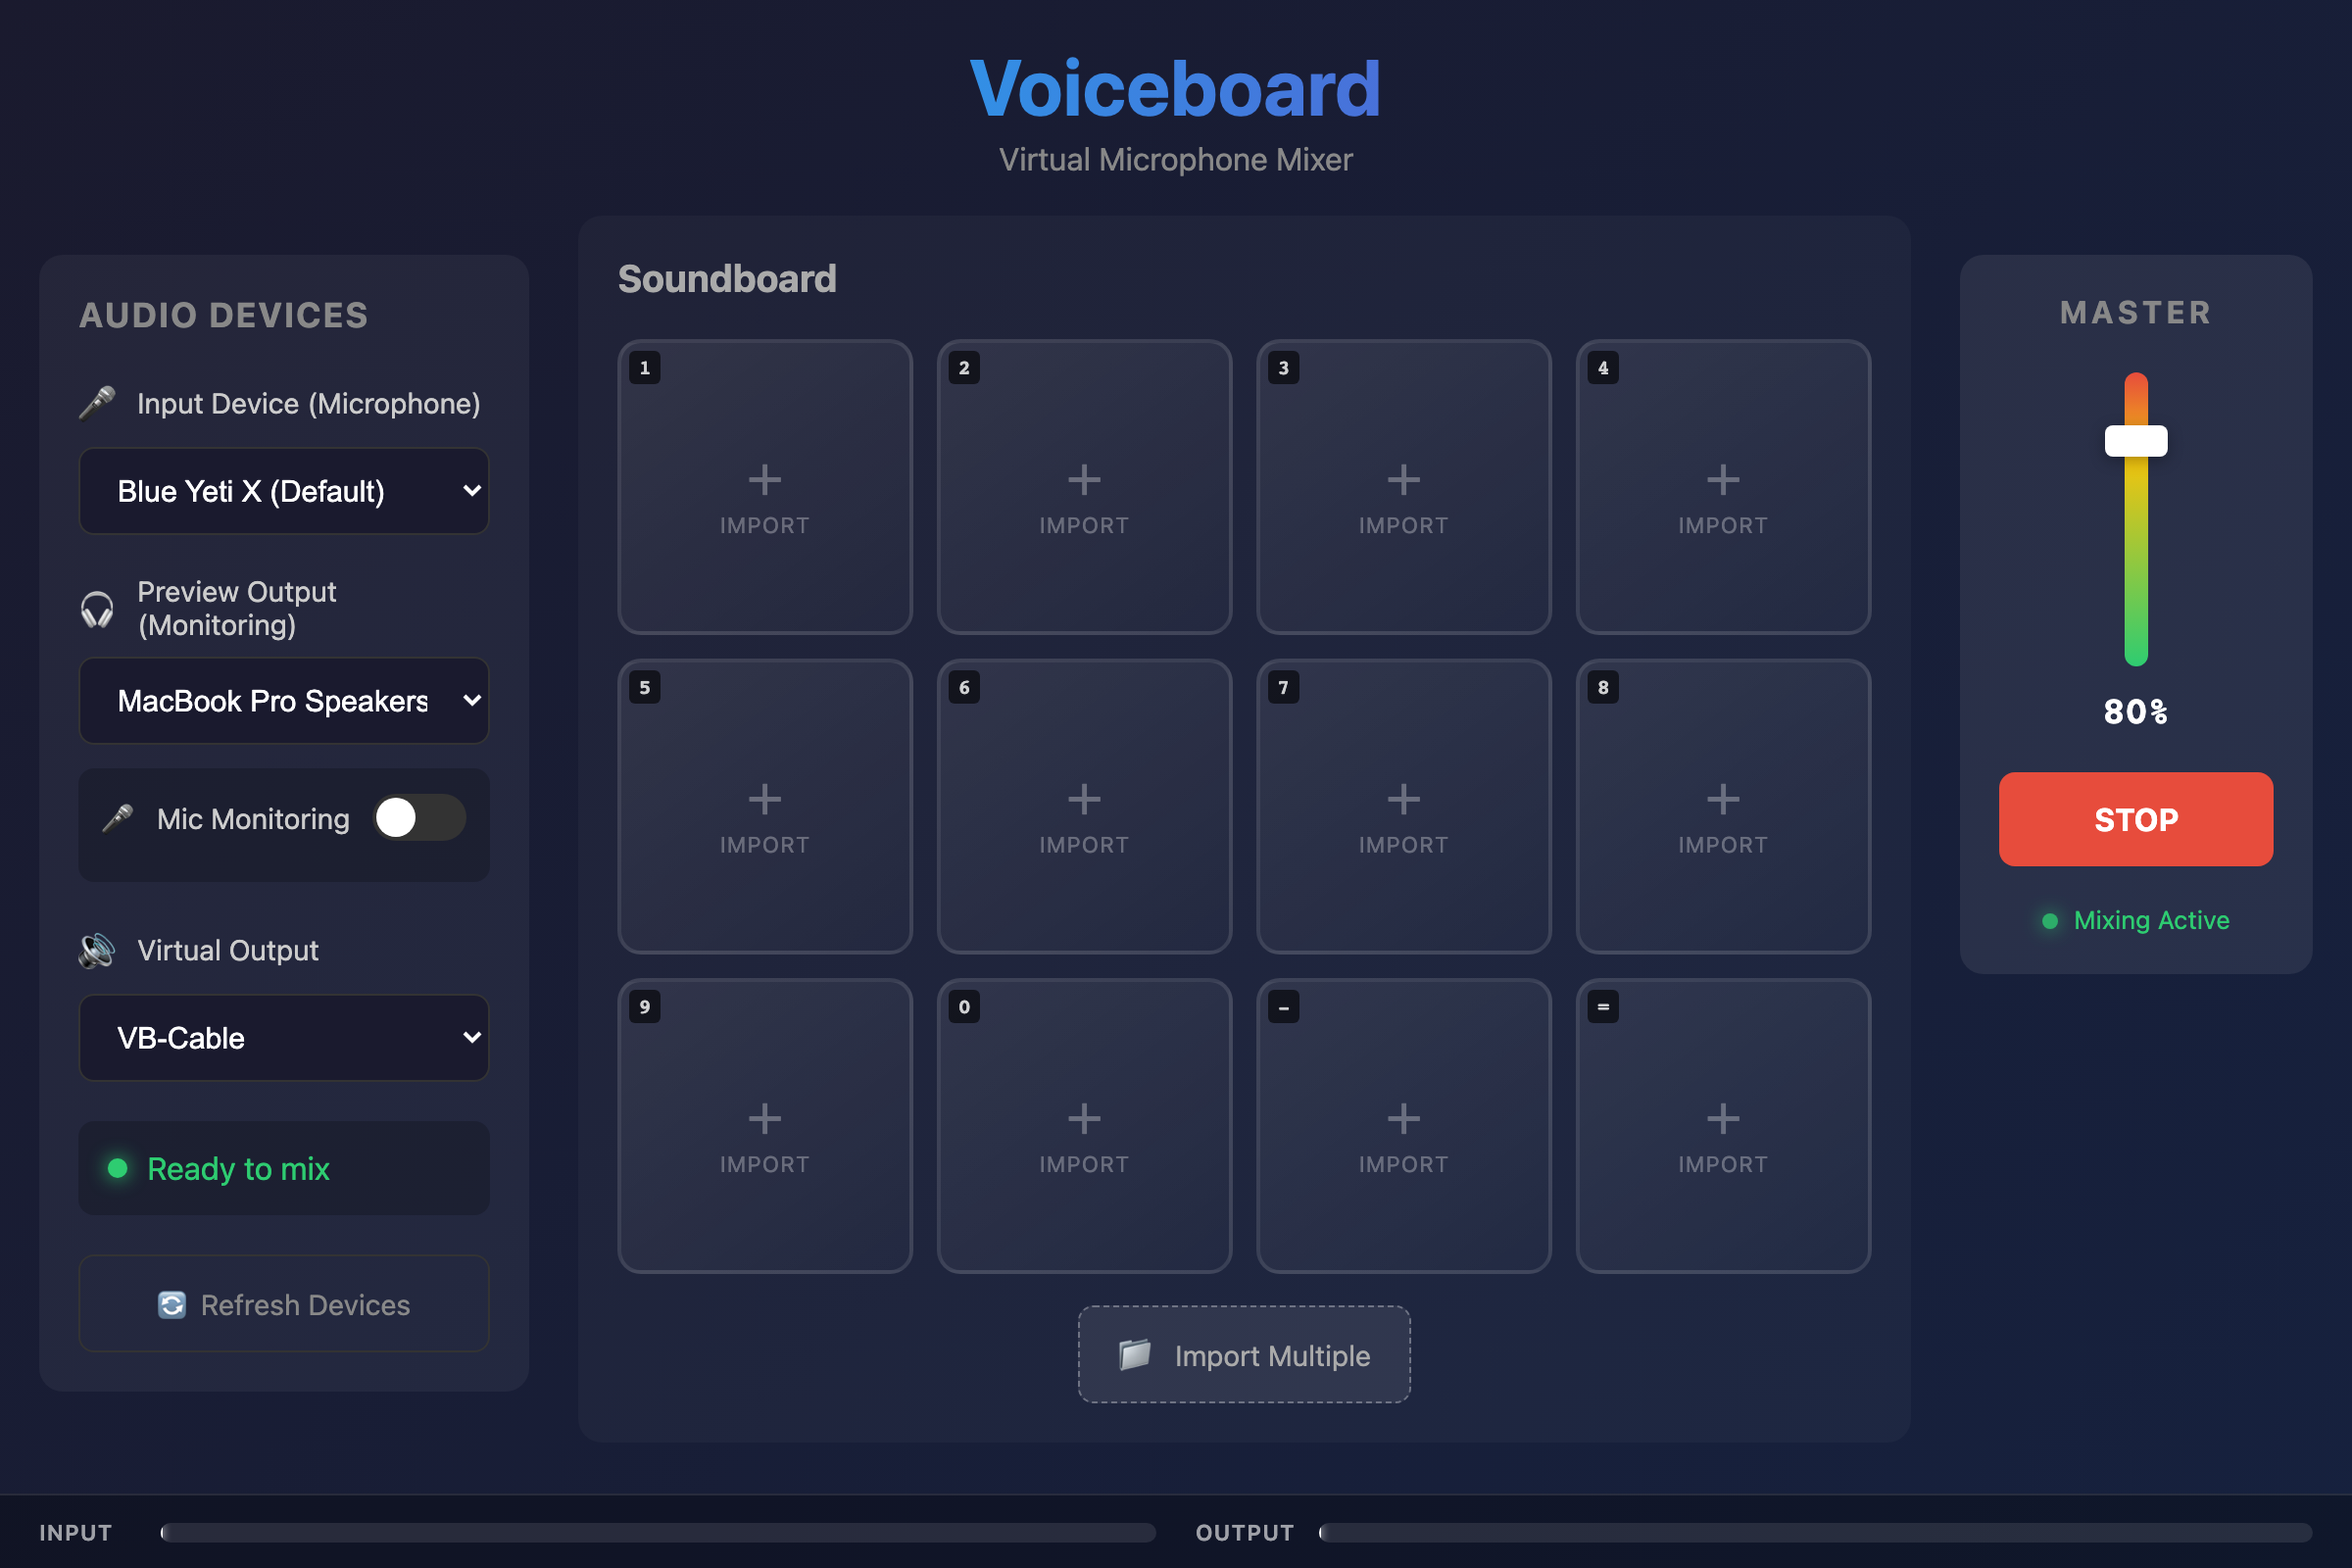
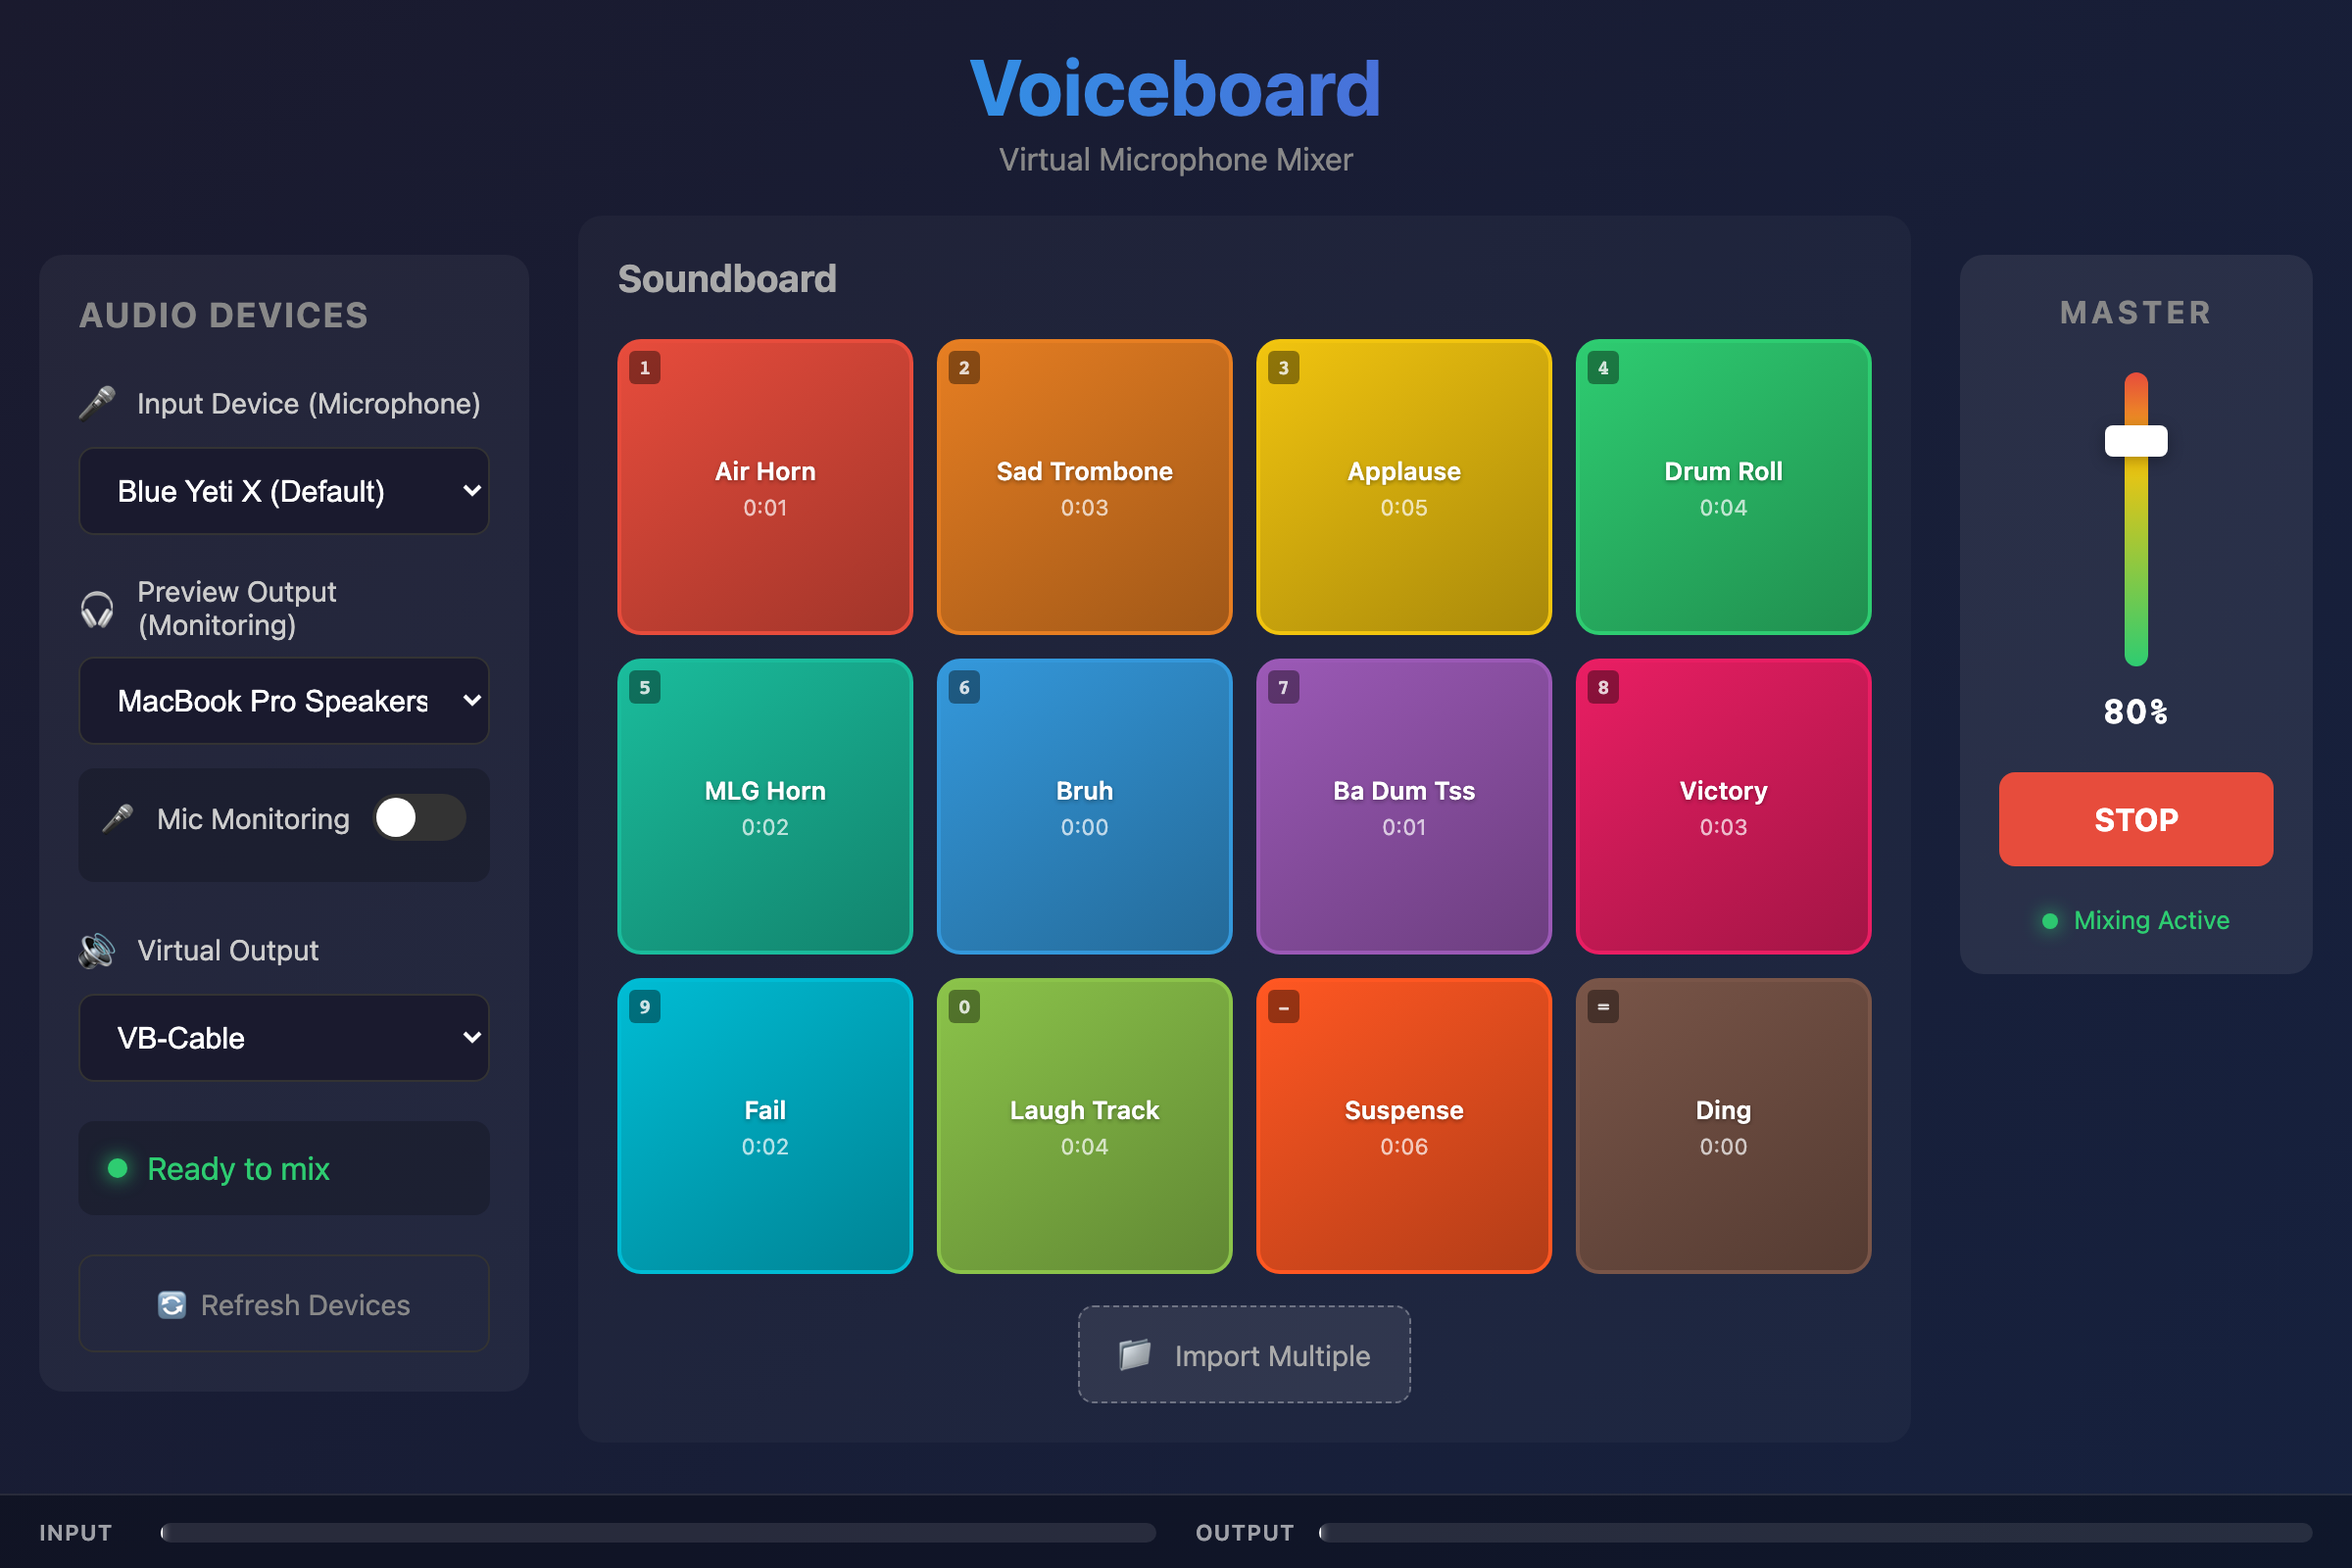
fix(demo): correct soundboard pad data structure
The demo pads were using a flat structure instead of the SavedPad
interface expected by SoundboardService. Fixed by:
- Adding sound property with proper SoundFile object
- Adding color property with PAD_COLORS
- Using correct pad IDs (pad-0 through pad-11)
- Adding hotkey property

Regenerated screenshot with visible pads.

🤖 Generated with [Claude Code](https://claude.com/claude-code)

Changed region(s): [[0.25, 0.2188, 0.8125, 0.8125]]

diff --git a/src/app/core/services/demo-data.ts b/src/app/core/services/demo-data.ts
@@ -42,19 +42,32 @@ export const DEMO_MIXER_CONFIG: MixerConfig = {
   bufferSize: 1024,
 };
 
+const PAD_COLORS = [
+  '#e74c3c', '#e67e22', '#f1c40f', '#2ecc71',
+  '#1abc9c', '#3498db', '#9b59b6', '#e91e63',
+  '#00bcd4', '#8bc34a', '#ff5722', '#795548'
+];
+
+function createDemoSound(id: string, name: string, path: string, duration: number): SoundFile {
+  return { id, name, path, duration, sampleRate: 48000, channels: 2 };
+}
+
+/**
+ * Demo soundboard pads with sounds - matches SavedPad interface
+ */
 export const DEMO_SOUNDBOARD_PADS = [
-  { id: 'pad-1', name: 'Air Horn', path: '/sounds/airhorn.mp3', shortcut: '1', volume: 1.0, speed: 1.0 },
-  { id: 'pad-2', name: 'Sad Trombone', path: '/sounds/sad-trombone.mp3', shortcut: '2', volume: 0.8, speed: 1.0 },
-  { id: 'pad-3', name: 'Applause', path: '/sounds/applause.mp3', shortcut: '3', volume: 1.0, speed: 1.0 },
-  { id: 'pad-4', name: 'Drum Roll', path: '/sounds/drumroll.mp3', shortcut: '4', volume: 0.9, speed: 1.0 },
-  { id: 'pad-5', name: 'MLG Horn', path: '/sounds/mlg.mp3', shortcut: '5', volume: 1.0, speed: 1.0 },
-  { id: 'pad-6', name: 'Bruh', path: '/sounds/bruh.mp3', shortcut: '6', volume: 0.7, speed: 1.0 },
-  { id: 'pad-7', name: 'Ba Dum Tss', path: '/sounds/badumtss.mp3', shortcut: '7', volume: 1.0, speed: 1.0 },
-  { id: 'pad-8', name: 'Victory', path: '/sounds/victory.mp3', shortcut: '8', volume: 1.0, speed: 1.0 },
-  { id: 'pad-9', name: 'Fail', path: '/sounds/fail.mp3', shortcut: '9', volume: 0.8, speed: 1.0 },
-  { id: 'pad-10', name: 'Laugh Track', path: '/sounds/laugh.mp3', shortcut: '0', volume: 1.0, speed: 1.0 },
-  { id: 'pad-11', name: 'Suspense', path: '/sounds/suspense.mp3', shortcut: '-', volume: 0.9, speed: 1.0 },
-  { id: 'pad-12', name: 'Ding', path: '/sounds/ding.mp3', shortcut: '=', volume: 1.0, speed: 1.0 },
+  { id: 'pad-0', sound: createDemoSound('s1', 'Air Horn', '/sounds/airhorn.mp3', 1.5), color: PAD_COLORS[0], hotkey: '1', volume: 1.0, speed: 1.0 },
+  { id: 'pad-1', sound: createDemoSound('s2', 'Sad Trombone', '/sounds/sad-trombone.mp3', 3.2), color: PAD_COLORS[1], hotkey: '2', volume: 0.8, speed: 1.0 },
+  { id: 'pad-2', sound: createDemoSound('s3', 'Applause', '/sounds/applause.mp3', 5.0), color: PAD_COLORS[2], hotkey: '3', volume: 1.0, speed: 1.0 },
+  { id: 'pad-3', sound: createDemoSound('s4', 'Drum Roll', '/sounds/drumroll.mp3', 4.0), color: PAD_COLORS[3], hotkey: '4', volume: 0.9, speed: 1.0 },
+  { id: 'pad-4', sound: createDemoSound('s5', 'MLG Horn', '/sounds/mlg.mp3', 2.0), color: PAD_COLORS[4], hotkey: '5', volume: 1.0, speed: 1.0 },
+  { id: 'pad-5', sound: createDemoSound('s6', 'Bruh', '/sounds/bruh.mp3', 0.8), color: PAD_COLORS[5], hotkey: '6', volume: 0.7, speed: 1.0 },
+  { id: 'pad-6', sound: createDemoSound('s7', 'Ba Dum Tss', '/sounds/badumtss.mp3', 1.2), color: PAD_COLORS[6], hotkey: '7', volume: 1.0, speed: 1.0 },
+  { id: 'pad-7', sound: createDemoSound('s8', 'Victory', '/sounds/victory.mp3', 3.5), color: PAD_COLORS[7], hotkey: '8', volume: 1.0, speed: 1.0 },
+  { id: 'pad-8', sound: createDemoSound('s9', 'Fail', '/sounds/fail.mp3', 2.5), color: PAD_COLORS[8], hotkey: '9', volume: 0.8, speed: 1.0 },
+  { id: 'pad-9', sound: createDemoSound('s10', 'Laugh Track', '/sounds/laugh.mp3', 4.5), color: PAD_COLORS[9], hotkey: '0', volume: 1.0, speed: 1.0 },
+  { id: 'pad-10', sound: createDemoSound('s11', 'Suspense', '/sounds/suspense.mp3', 6.0), color: PAD_COLORS[10], hotkey: '-', volume: 0.9, speed: 1.0 },
+  { id: 'pad-11', sound: createDemoSound('s12', 'Ding', '/sounds/ding.mp3', 0.5), color: PAD_COLORS[11], hotkey: '=', volume: 1.0, speed: 1.0 },
 ];
 
 export function createDemoSoundFile(path: string): SoundFile {
